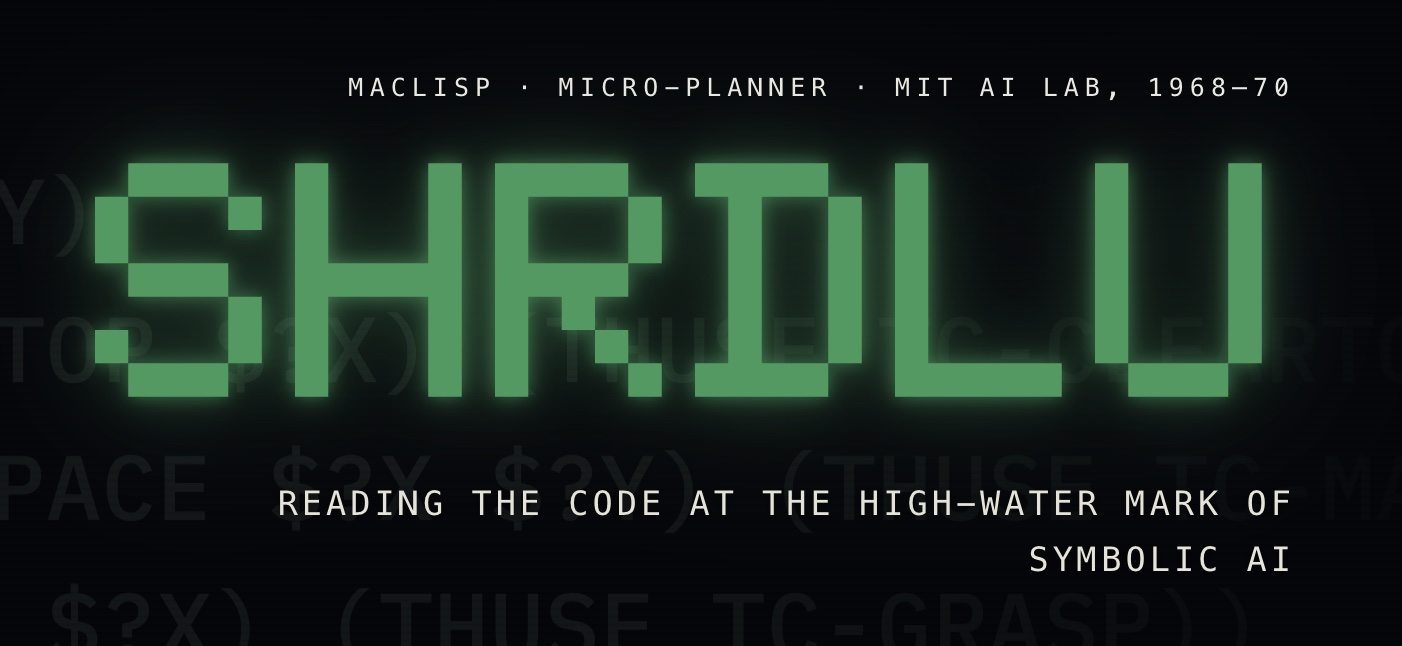
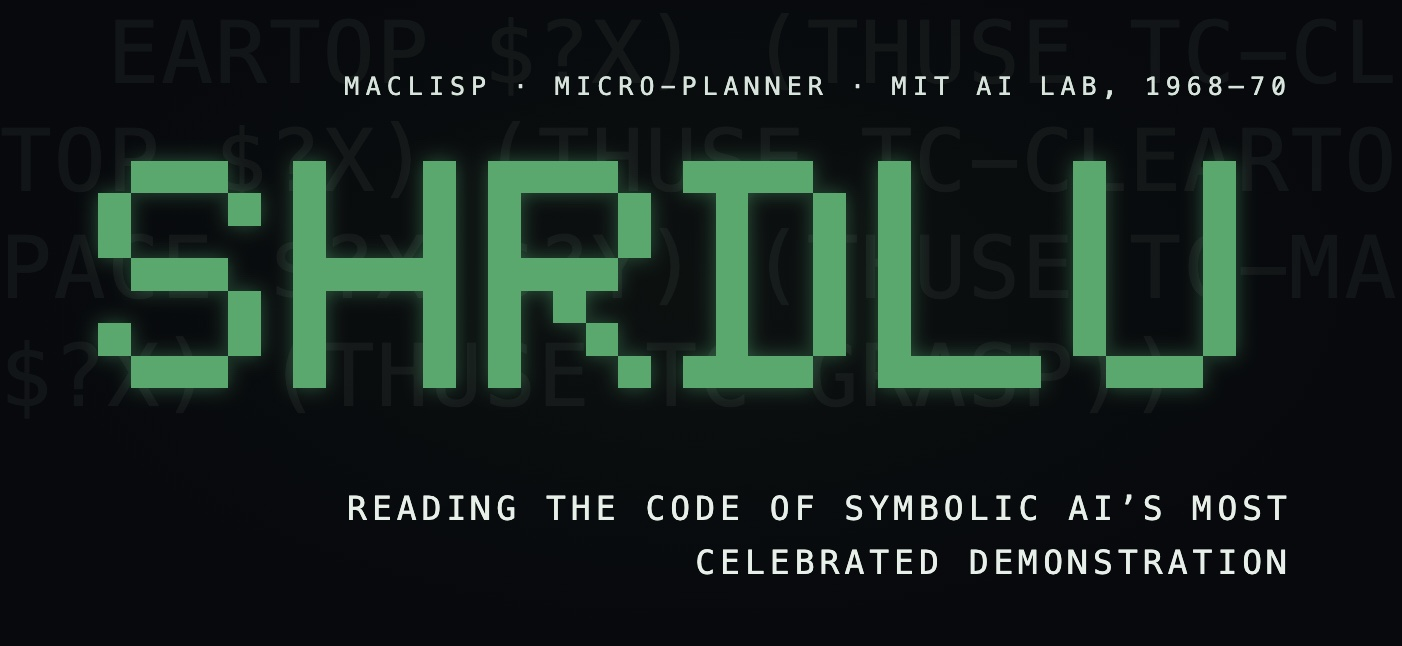
Tagline: reading the code of symbolic AI's most celebrated demonstration
The site called SHRDLU the high-water mark of symbolic AI. The usual account
puts that later, with the deployed expert systems of the 1980s (R1/XCON at DEC
from 1980). The tagline, descriptions, share-card text and the overview's
sentence now call it symbolic AI's most celebrated demonstration, a claim about
its reception. The share card is redrawn with the new line, from an HTML source
now kept at assets/card/og-card.html; its address is versioned afresh so that
previews fetch it.

diff --git a/index.html b/index.html
@@ -4,22 +4,22 @@
   <meta charset="utf-8">
   <meta name="viewport" content="width=device-width, initial-scale=1">
   <title>SHRDLU (1968–70): A Critical Code Studies Reading</title>
-  <meta name="description" content="A critical code reading of SHRDLU, Terry Winograd's natural-language-understanding program for the MIT blocks world, written in MacLisp and Micro-Planner, 1968–70. Reading the code at the high-water mark of symbolic AI as a cultural text.">
+  <meta name="description" content="A critical code reading of SHRDLU, Terry Winograd's natural-language-understanding program for the MIT blocks world, written in MacLisp and Micro-Planner, 1968–70. Reading the code of symbolic AI’s most celebrated demonstration as a cultural text.">
   <link rel="icon" type="image/svg+xml" href="assets/favicon.svg?v=3">
   <link rel="icon" type="image/png" sizes="32x32" href="assets/favicon-32.png?v=3">
   <link rel="apple-touch-icon" href="assets/apple-touch-icon.png?v=3">
   <meta name="theme-color" content="#11131a">
   <link rel="canonical" href="https://critical-code-studies.github.io/SHRDLU/">
   <meta property="og:title" content="SHRDLU (1968–70): A Critical Code Studies Reading">
-  <meta property="og:description" content="Reading Terry Winograd's blocks-world program as cultural text, at the high-water mark of symbolic AI.">
+  <meta property="og:description" content="Reading Terry Winograd's blocks-world program, symbolic AI’s most celebrated demonstration, as cultural text.">
   <meta property="og:type" content="website">
   <meta property="og:url" content="https://critical-code-studies.github.io/SHRDLU/">
   <meta name="twitter:card" content="summary_large_image">
-  <meta property="og:image" content="https://critical-code-studies.github.io/SHRDLU/assets/DB-Card.jpg?v=1">
+  <meta property="og:image" content="https://critical-code-studies.github.io/SHRDLU/assets/DB-Card.jpg?v=2">
   <meta property="og:image:width" content="1402">
   <meta property="og:image:height" content="646">
-  <meta property="og:image:alt" content="SHRDLU: reading the code at the high-water mark of symbolic AI">
-  <meta name="twitter:image" content="https://critical-code-studies.github.io/SHRDLU/assets/DB-Card.jpg?v=1">
+  <meta property="og:image:alt" content="SHRDLU: reading the code of symbolic AI’s most celebrated demonstration">
+  <meta name="twitter:image" content="https://critical-code-studies.github.io/SHRDLU/assets/DB-Card.jpg?v=2">
   <link rel="preconnect" href="https://fonts.googleapis.com">
   <link rel="preconnect" href="https://fonts.gstatic.com" crossorigin>
   <link href="https://fonts.googleapis.com/css2?family=IBM+Plex+Mono:wght@500;700&display=swap" rel="stylesheet">
@@ -246,7 +246,7 @@
         <div class="hero-titles">
           <p class="boot">MacLisp · Micro-Planner · MIT AI Lab, 1968–70</p>
           <h1><svg class="wordmark-svg" viewBox="0 0 36 10" role="img" aria-label="SHRDLU" preserveAspectRatio="xMidYMid meet" shape-rendering="crispEdges" xmlns="http://www.w3.org/2000/svg"><path fill="currentColor" d="M1 1h1v1h-1zM2 1h1v1h-1zM3 1h1v1h-1zM0 2h1v1h-1zM4 2h1v1h-1zM0 3h1v1h-1zM1 4h1v1h-1zM2 4h1v1h-1zM3 4h1v1h-1zM4 5h1v1h-1zM0 6h1v1h-1zM4 6h1v1h-1zM1 7h1v1h-1zM2 7h1v1h-1zM3 7h1v1h-1zM6 1h1v1h-1zM10 1h1v1h-1zM6 2h1v1h-1zM10 2h1v1h-1zM6 3h1v1h-1zM10 3h1v1h-1zM6 4h1v1h-1zM7 4h1v1h-1zM8 4h1v1h-1zM9 4h1v1h-1zM10 4h1v1h-1zM6 5h1v1h-1zM10 5h1v1h-1zM6 6h1v1h-1zM10 6h1v1h-1zM6 7h1v1h-1zM10 7h1v1h-1zM12 1h1v1h-1zM13 1h1v1h-1zM14 1h1v1h-1zM15 1h1v1h-1zM12 2h1v1h-1zM16 2h1v1h-1zM12 3h1v1h-1zM16 3h1v1h-1zM12 4h1v1h-1zM13 4h1v1h-1zM14 4h1v1h-1zM15 4h1v1h-1zM12 5h1v1h-1zM14 5h1v1h-1zM12 6h1v1h-1zM15 6h1v1h-1zM12 7h1v1h-1zM16 7h1v1h-1zM18 1h1v1h-1zM19 1h1v1h-1zM20 1h1v1h-1zM21 1h1v1h-1zM19 2h1v1h-1zM22 2h1v1h-1zM19 3h1v1h-1zM22 3h1v1h-1zM19 4h1v1h-1zM22 4h1v1h-1zM19 5h1v1h-1zM22 5h1v1h-1zM19 6h1v1h-1zM22 6h1v1h-1zM18 7h1v1h-1zM19 7h1v1h-1zM20 7h1v1h-1zM21 7h1v1h-1zM24 1h1v1h-1zM24 2h1v1h-1zM24 3h1v1h-1zM24 4h1v1h-1zM24 5h1v1h-1zM24 6h1v1h-1zM24 7h1v1h-1zM25 7h1v1h-1zM26 7h1v1h-1zM27 7h1v1h-1zM28 7h1v1h-1zM30 1h1v1h-1zM34 1h1v1h-1zM30 2h1v1h-1zM34 2h1v1h-1zM30 3h1v1h-1zM34 3h1v1h-1zM30 4h1v1h-1zM34 4h1v1h-1zM30 5h1v1h-1zM34 5h1v1h-1zM30 6h1v1h-1zM34 6h1v1h-1zM31 7h1v1h-1zM32 7h1v1h-1zM33 7h1v1h-1z"/></svg></h1>
-          <p class="sub">Reading the code at the high-water mark of symbolic AI</p>
+          <p class="sub">Reading the code of symbolic AI’s most celebrated demonstration</p>
           <p class="tagline">A critical code study of Terry Winograd's natural-language-understanding program and its tabletop blocks world, read as a cultural text.</p>
           <div class="hero-actions">
             <a class="btn" href="dialogue.html">▶ Read the dialogue</a>

diff --git a/overview.html b/overview.html
@@ -11,11 +11,11 @@
   <meta property="og:type" content="website">
   <meta property="og:url" content="https://critical-code-studies.github.io/SHRDLU/overview.html">
   <meta name="twitter:card" content="summary_large_image">
-  <meta property="og:image" content="https://critical-code-studies.github.io/SHRDLU/assets/DB-Card.jpg?v=1">
+  <meta property="og:image" content="https://critical-code-studies.github.io/SHRDLU/assets/DB-Card.jpg?v=2">
   <meta property="og:image:width" content="1402">
   <meta property="og:image:height" content="646">
-  <meta property="og:image:alt" content="SHRDLU: reading the code at the high-water mark of symbolic AI">
-  <meta name="twitter:image" content="https://critical-code-studies.github.io/SHRDLU/assets/DB-Card.jpg?v=1">
+  <meta property="og:image:alt" content="SHRDLU: reading the code of symbolic AI’s most celebrated demonstration">
+  <meta name="twitter:image" content="https://critical-code-studies.github.io/SHRDLU/assets/DB-Card.jpg?v=2">
   <link rel="icon" type="image/svg+xml" href="assets/favicon.svg?v=3">
   <link rel="icon" type="image/png" sizes="32x32" href="assets/favicon-32.png?v=3">
   <link rel="apple-touch-icon" href="assets/apple-touch-icon.png?v=3">
@@ -128,7 +128,7 @@
     <section class="block">
       <span class="kicker">Legacy</span>
       <h2>Why it mattered, and what came next</h2>
-      <p>SHRDLU is rightly remembered as the high-water mark of good old-fashioned AI (GOFAI). It seemed to demonstrate that symbolic representation and deductive reasoning could yield genuine linguistic understanding, and the optimism it produced ran well ahead of what the program could in fact do. That gap is the subject of the <a href="critique.html">critique and legacy</a> page, which develops three lines: the scripted, "demo or die" character of the famous dialogue, worked through line by line; the microworld scaling problem, the difficulty of extending an intelligence purchased by radically restricting the world; and Winograd's own later turn, from builder to critic, culminating in <em>Understanding Computers and Cognition</em> with Fernando Flores in 1986.</p>
+      <p>SHRDLU is rightly remembered as the most celebrated demonstration of good old-fashioned AI (GOFAI). It seemed to demonstrate that symbolic representation and deductive reasoning could yield genuine linguistic understanding, and the optimism it produced ran well ahead of what the program could in fact do. That gap is the subject of the <a href="critique.html">critique and legacy</a> page, which develops three lines: the scripted, "demo or die" character of the famous dialogue, worked through line by line; the microworld scaling problem, the difficulty of extending an intelligence purchased by radically restricting the world; and Winograd's own later turn, from builder to critic, culminating in <em>Understanding Computers and Cognition</em> with Fernando Flores in 1986.</p>
       <p>For more information about how the program got its name, see <a href="the-name.html">the name</a>, and for the people involved in building it, see <a href="people.html">people</a>.</p>
     </section>
 

diff --git a/assets/card/og-card.html b/assets/card/og-card.html
@@ -1,0 +1,17 @@
+<!doctype html><html><head><meta charset="utf-8"><style>
+html,body{margin:0;width:1402px;height:646px;overflow:hidden;background:#07090c}
+.c{position:relative;width:1402px;height:646px;background:radial-gradient(ellipse at 50% 45%,#0c1110 0,#07090c 70%)}
+.code{position:absolute;inset:0;font:500 86px/1.25 "SF Mono",Menlo,monospace;color:#9fb3a8;opacity:.07;white-space:pre;letter-spacing:2px}
+.top{position:absolute;right:110px;top:74px;font:500 25px/1 "SF Mono",Menlo,monospace;letter-spacing:6px;color:#d7e4dc}
+.wm{position:absolute;left:98px;top:128px;filter:drop-shadow(0 0 10px rgba(110,220,150,.35))}
+.tag{position:absolute;right:110px;top:482px;width:1050px;text-align:right;font:500 33px/1.65 "SF Mono",Menlo,monospace;letter-spacing:5px;color:#e7efe9}
+</style></head><body><div class="c">
+<div class="code">  EARTOP $?X) (THUSE TC-CLEARTOP))
+TOP $?X) (THUSE TC-CLEARTOP))
+PACE $?X $?Y) (THUSE TC-MAKESPACE)
+$?X) (THUSE TC-GRASP))</div>
+<div class="top">MACLISP · MICRO-PLANNER · MIT AI LAB, 1968–70</div>
+<div class="wm"><svg viewBox="0 0 36 10" width="1170" height="325" shape-rendering="crispEdges" xmlns="http://www.w3.org/2000/svg"><path fill="#5aa86e" d="M1 1h1v1h-1zM2 1h1v1h-1zM3 1h1v1h-1zM0 2h1v1h-1zM4 2h1v1h-1zM0 3h1v1h-1zM1 4h1v1h-1zM2 4h1v1h-1zM3 4h1v1h-1zM4 5h1v1h-1zM0 6h1v1h-1zM4 6h1v1h-1zM1 7h1v1h-1zM2 7h1v1h-1zM3 7h1v1h-1zM6 1h1v1h-1zM10 1h1v1h-1zM6 2h1v1h-1zM10 2h1v1h-1zM6 3h1v1h-1zM10 3h1v1h-1zM6 4h1v1h-1zM7 4h1v1h-1zM8 4h1v1h-1zM9 4h1v1h-1zM10 4h1v1h-1zM6 5h1v1h-1zM10 5h1v1h-1zM6 6h1v1h-1zM10 6h1v1h-1zM6 7h1v1h-1zM10 7h1v1h-1zM12 1h1v1h-1zM13 1h1v1h-1zM14 1h1v1h-1zM15 1h1v1h-1zM12 2h1v1h-1zM16 2h1v1h-1zM12 3h1v1h-1zM16 3h1v1h-1zM12 4h1v1h-1zM13 4h1v1h-1zM14 4h1v1h-1zM15 4h1v1h-1zM12 5h1v1h-1zM14 5h1v1h-1zM12 6h1v1h-1zM15 6h1v1h-1zM12 7h1v1h-1zM16 7h1v1h-1zM18 1h1v1h-1zM19 1h1v1h-1zM20 1h1v1h-1zM21 1h1v1h-1zM19 2h1v1h-1zM22 2h1v1h-1zM19 3h1v1h-1zM22 3h1v1h-1zM19 4h1v1h-1zM22 4h1v1h-1zM19 5h1v1h-1zM22 5h1v1h-1zM19 6h1v1h-1zM22 6h1v1h-1zM18 7h1v1h-1zM19 7h1v1h-1zM20 7h1v1h-1zM21 7h1v1h-1zM24 1h1v1h-1zM24 2h1v1h-1zM24 3h1v1h-1zM24 4h1v1h-1zM24 5h1v1h-1zM24 6h1v1h-1zM24 7h1v1h-1zM25 7h1v1h-1zM26 7h1v1h-1zM27 7h1v1h-1zM28 7h1v1h-1zM30 1h1v1h-1zM34 1h1v1h-1zM30 2h1v1h-1zM34 2h1v1h-1zM30 3h1v1h-1zM34 3h1v1h-1zM30 4h1v1h-1zM34 4h1v1h-1zM30 5h1v1h-1zM34 5h1v1h-1zM30 6h1v1h-1zM34 6h1v1h-1zM31 7h1v1h-1zM32 7h1v1h-1zM33 7h1v1h-1z"/></svg>
+</div>
+<div class="tag">READING THE CODE OF SYMBOLIC AI’S MOST CELEBRATED DEMONSTRATION</div>
+</div></body></html>

diff --git a/research/index.html b/research/index.html
@@ -10,12 +10,12 @@
   <meta property="og:description" content="Read, compare and annotate the surviving MacLisp and Micro-Planner source of Terry Winograd's SHRDLU (MIT, 1968–72), with the Critical Code Studies group.">
   <meta property="og:type" content="website">
   <meta property="og:url" content="https://critical-code-studies.github.io/SHRDLU/research/">
-  <meta property="og:image" content="https://critical-code-studies.github.io/SHRDLU/assets/DB-Card.jpg?v=1">
+  <meta property="og:image" content="https://critical-code-studies.github.io/SHRDLU/assets/DB-Card.jpg?v=2">
   <meta property="og:image:width" content="1402">
   <meta property="og:image:height" content="646">
-  <meta property="og:image:alt" content="SHRDLU: reading the code at the high-water mark of symbolic AI">
+  <meta property="og:image:alt" content="SHRDLU: reading the code of symbolic AI’s most celebrated demonstration">
   <meta name="twitter:card" content="summary_large_image">
-  <meta name="twitter:image" content="https://critical-code-studies.github.io/SHRDLU/assets/DB-Card.jpg?v=1">
+  <meta name="twitter:image" content="https://critical-code-studies.github.io/SHRDLU/assets/DB-Card.jpg?v=2">
   <!-- Bench version: the ?v= on every script and stylesheet below. Raise it by
        0.0.1 on every push that changes research/, all tags alike, so browsers
        fetch fresh copies. core.js reads it from its own tag. Set bench-date to

diff --git a/bibliography.html b/bibliography.html
@@ -11,11 +11,11 @@
   <meta property="og:type" content="website">
   <meta property="og:url" content="https://critical-code-studies.github.io/SHRDLU/bibliography.html">
   <meta name="twitter:card" content="summary_large_image">
-  <meta property="og:image" content="https://critical-code-studies.github.io/SHRDLU/assets/DB-Card.jpg?v=1">
+  <meta property="og:image" content="https://critical-code-studies.github.io/SHRDLU/assets/DB-Card.jpg?v=2">
   <meta property="og:image:width" content="1402">
   <meta property="og:image:height" content="646">
-  <meta property="og:image:alt" content="SHRDLU: reading the code at the high-water mark of symbolic AI">
-  <meta name="twitter:image" content="https://critical-code-studies.github.io/SHRDLU/assets/DB-Card.jpg?v=1">
+  <meta property="og:image:alt" content="SHRDLU: reading the code of symbolic AI’s most celebrated demonstration">
+  <meta name="twitter:image" content="https://critical-code-studies.github.io/SHRDLU/assets/DB-Card.jpg?v=2">
   <link rel="icon" type="image/svg+xml" href="assets/favicon.svg?v=3">
   <link rel="icon" type="image/png" sizes="32x32" href="assets/favicon-32.png?v=3">
   <link rel="apple-touch-icon" href="assets/apple-touch-icon.png?v=3">

diff --git a/blocks-world.html b/blocks-world.html
@@ -11,11 +11,11 @@
   <meta property="og:type" content="website">
   <meta property="og:url" content="https://critical-code-studies.github.io/SHRDLU/blocks-world.html">
   <meta name="twitter:card" content="summary_large_image">
-  <meta property="og:image" content="https://critical-code-studies.github.io/SHRDLU/assets/DB-Card.jpg?v=1">
+  <meta property="og:image" content="https://critical-code-studies.github.io/SHRDLU/assets/DB-Card.jpg?v=2">
   <meta property="og:image:width" content="1402">
   <meta property="og:image:height" content="646">
-  <meta property="og:image:alt" content="SHRDLU: reading the code at the high-water mark of symbolic AI">
-  <meta name="twitter:image" content="https://critical-code-studies.github.io/SHRDLU/assets/DB-Card.jpg?v=1">
+  <meta property="og:image:alt" content="SHRDLU: reading the code of symbolic AI’s most celebrated demonstration">
+  <meta name="twitter:image" content="https://critical-code-studies.github.io/SHRDLU/assets/DB-Card.jpg?v=2">
   <link rel="icon" type="image/svg+xml" href="assets/favicon.svg?v=3">
   <link rel="icon" type="image/png" sizes="32x32" href="assets/favicon-32.png?v=3">
   <link rel="apple-touch-icon" href="assets/apple-touch-icon.png?v=3">

diff --git a/critique.html b/critique.html
@@ -11,11 +11,11 @@
   <meta property="og:type" content="website">
   <meta property="og:url" content="https://critical-code-studies.github.io/SHRDLU/critique.html">
   <meta name="twitter:card" content="summary_large_image">
-  <meta property="og:image" content="https://critical-code-studies.github.io/SHRDLU/assets/DB-Card.jpg?v=1">
+  <meta property="og:image" content="https://critical-code-studies.github.io/SHRDLU/assets/DB-Card.jpg?v=2">
   <meta property="og:image:width" content="1402">
   <meta property="og:image:height" content="646">
-  <meta property="og:image:alt" content="SHRDLU: reading the code at the high-water mark of symbolic AI">
-  <meta name="twitter:image" content="https://critical-code-studies.github.io/SHRDLU/assets/DB-Card.jpg?v=1">
+  <meta property="og:image:alt" content="SHRDLU: reading the code of symbolic AI’s most celebrated demonstration">
+  <meta name="twitter:image" content="https://critical-code-studies.github.io/SHRDLU/assets/DB-Card.jpg?v=2">
   <link rel="icon" type="image/svg+xml" href="assets/favicon.svg?v=3">
   <link rel="icon" type="image/png" sizes="32x32" href="assets/favicon-32.png?v=3">
   <link rel="apple-touch-icon" href="assets/apple-touch-icon.png?v=3">

diff --git a/dialogue.html b/dialogue.html
@@ -11,11 +11,11 @@
   <meta property="og:type" content="website">
   <meta property="og:url" content="https://critical-code-studies.github.io/SHRDLU/dialogue.html">
   <meta name="twitter:card" content="summary_large_image">
-  <meta property="og:image" content="https://critical-code-studies.github.io/SHRDLU/assets/DB-Card.jpg?v=1">
+  <meta property="og:image" content="https://critical-code-studies.github.io/SHRDLU/assets/DB-Card.jpg?v=2">
   <meta property="og:image:width" content="1402">
   <meta property="og:image:height" content="646">
-  <meta property="og:image:alt" content="SHRDLU: reading the code at the high-water mark of symbolic AI">
-  <meta name="twitter:image" content="https://critical-code-studies.github.io/SHRDLU/assets/DB-Card.jpg?v=1">
+  <meta property="og:image:alt" content="SHRDLU: reading the code of symbolic AI’s most celebrated demonstration">
+  <meta name="twitter:image" content="https://critical-code-studies.github.io/SHRDLU/assets/DB-Card.jpg?v=2">
   <link rel="icon" type="image/svg+xml" href="assets/favicon.svg?v=3">
   <link rel="icon" type="image/png" sizes="32x32" href="assets/favicon-32.png?v=3">
   <link rel="apple-touch-icon" href="assets/apple-touch-icon.png?v=3">

diff --git a/the-name.html b/the-name.html
@@ -11,11 +11,11 @@
   <meta property="og:type" content="website">
   <meta property="og:url" content="https://critical-code-studies.github.io/SHRDLU/the-name.html">
   <meta name="twitter:card" content="summary_large_image">
-  <meta property="og:image" content="https://critical-code-studies.github.io/SHRDLU/assets/DB-Card.jpg?v=1">
+  <meta property="og:image" content="https://critical-code-studies.github.io/SHRDLU/assets/DB-Card.jpg?v=2">
   <meta property="og:image:width" content="1402">
   <meta property="og:image:height" content="646">
-  <meta property="og:image:alt" content="SHRDLU: reading the code at the high-water mark of symbolic AI">
-  <meta name="twitter:image" content="https://critical-code-studies.github.io/SHRDLU/assets/DB-Card.jpg?v=1">
+  <meta property="og:image:alt" content="SHRDLU: reading the code of symbolic AI’s most celebrated demonstration">
+  <meta name="twitter:image" content="https://critical-code-studies.github.io/SHRDLU/assets/DB-Card.jpg?v=2">
   <link rel="icon" type="image/svg+xml" href="assets/favicon.svg?v=3">
   <link rel="icon" type="image/png" sizes="32x32" href="assets/favicon-32.png?v=3">
   <link rel="apple-touch-icon" href="assets/apple-touch-icon.png?v=3">

diff --git a/timeline.html b/timeline.html
@@ -11,11 +11,11 @@
   <meta property="og:type" content="website">
   <meta property="og:url" content="https://critical-code-studies.github.io/SHRDLU/timeline.html">
   <meta name="twitter:card" content="summary_large_image">
-  <meta property="og:image" content="https://critical-code-studies.github.io/SHRDLU/assets/DB-Card.jpg?v=1">
+  <meta property="og:image" content="https://critical-code-studies.github.io/SHRDLU/assets/DB-Card.jpg?v=2">
   <meta property="og:image:width" content="1402">
   <meta property="og:image:height" content="646">
-  <meta property="og:image:alt" content="SHRDLU: reading the code at the high-water mark of symbolic AI">
-  <meta name="twitter:image" content="https://critical-code-studies.github.io/SHRDLU/assets/DB-Card.jpg?v=1">
+  <meta property="og:image:alt" content="SHRDLU: reading the code of symbolic AI’s most celebrated demonstration">
+  <meta name="twitter:image" content="https://critical-code-studies.github.io/SHRDLU/assets/DB-Card.jpg?v=2">
   <link rel="icon" type="image/svg+xml" href="assets/favicon.svg?v=3">
   <link rel="icon" type="image/png" sizes="32x32" href="assets/favicon-32.png?v=3">
   <link rel="apple-touch-icon" href="assets/apple-touch-icon.png?v=3">

diff --git a/people.html b/people.html
@@ -11,11 +11,11 @@
   <meta property="og:type" content="website">
   <meta property="og:url" content="https://critical-code-studies.github.io/SHRDLU/people.html">
   <meta name="twitter:card" content="summary_large_image">
-  <meta property="og:image" content="https://critical-code-studies.github.io/SHRDLU/assets/DB-Card.jpg?v=1">
+  <meta property="og:image" content="https://critical-code-studies.github.io/SHRDLU/assets/DB-Card.jpg?v=2">
   <meta property="og:image:width" content="1402">
   <meta property="og:image:height" content="646">
-  <meta property="og:image:alt" content="SHRDLU: reading the code at the high-water mark of symbolic AI">
-  <meta name="twitter:image" content="https://critical-code-studies.github.io/SHRDLU/assets/DB-Card.jpg?v=1">
+  <meta property="og:image:alt" content="SHRDLU: reading the code of symbolic AI’s most celebrated demonstration">
+  <meta name="twitter:image" content="https://critical-code-studies.github.io/SHRDLU/assets/DB-Card.jpg?v=2">
   <link rel="icon" type="image/svg+xml" href="assets/favicon.svg?v=3">
   <link rel="icon" type="image/png" sizes="32x32" href="assets/favicon-32.png?v=3">
   <link rel="apple-touch-icon" href="assets/apple-touch-icon.png?v=3">

diff --git a/about.html b/about.html
@@ -11,11 +11,11 @@
   <meta property="og:type" content="website">
   <meta property="og:url" content="https://critical-code-studies.github.io/SHRDLU/about.html">
   <meta name="twitter:card" content="summary_large_image">
-  <meta property="og:image" content="https://critical-code-studies.github.io/SHRDLU/assets/DB-Card.jpg?v=1">
+  <meta property="og:image" content="https://critical-code-studies.github.io/SHRDLU/assets/DB-Card.jpg?v=2">
   <meta property="og:image:width" content="1402">
   <meta property="og:image:height" content="646">
-  <meta property="og:image:alt" content="SHRDLU: reading the code at the high-water mark of symbolic AI">
-  <meta name="twitter:image" content="https://critical-code-studies.github.io/SHRDLU/assets/DB-Card.jpg?v=1">
+  <meta property="og:image:alt" content="SHRDLU: reading the code of symbolic AI’s most celebrated demonstration">
+  <meta name="twitter:image" content="https://critical-code-studies.github.io/SHRDLU/assets/DB-Card.jpg?v=2">
   <link rel="icon" type="image/svg+xml" href="assets/favicon.svg?v=3">
   <link rel="icon" type="image/png" sizes="32x32" href="assets/favicon-32.png?v=3">
   <link rel="apple-touch-icon" href="assets/apple-touch-icon.png?v=3">
